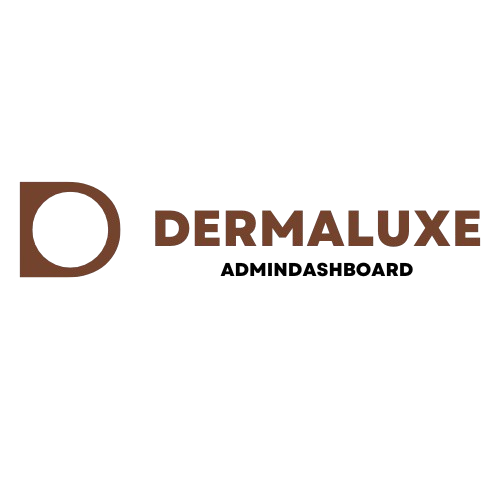
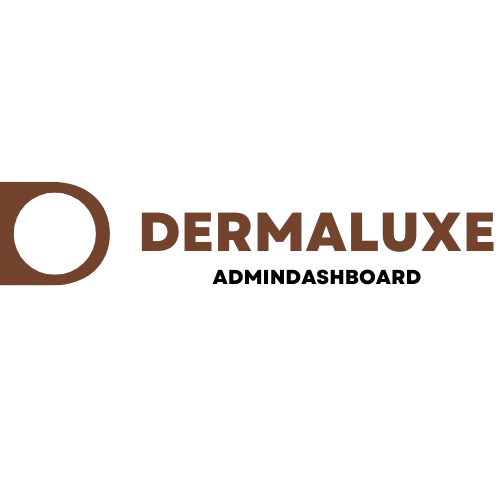
Add new entries to the backend and update the admin dashboard

Changed region(s): [[0.27, 0.42, 0.99, 0.57], [0.0, 0.36, 0.24, 0.57]]

diff --git a/skincare-product-recommendation-frontend/src/components/Admin/Admin.css b/skincare-product-recommendation-frontend/src/components/Admin/Admin.css
@@ -5,8 +5,8 @@
 }
 
 .sidebar {
-    width: 250px;
-    background-color: #cab69e;
+    width: 220px;
+    background-color: #e9e5df;
     color: white;
     padding: 20px;
     display: flex;
@@ -14,10 +14,11 @@
 }
 
 .sidebar-image {
-    width: 114%;
+    display: block;
+    margin: -50px -6px;
+    width: 107%;
     height: auto;
-    margin-left: -19px;
-    margin-top: -70px;
+
 }
 
 ul {

diff --git a/skincare-product-recommendation-frontend/src/App.js b/skincare-product-recommendation-frontend/src/App.js
@@ -43,6 +43,11 @@ function App() {
         <Route path='/skin-dermaluxe' element={<Dermaluxe />} />
         <Route path='/skin' element={<Quiz />} />
 
+
+
+
+
+
         {/* Admin routes wrapped in AdminRoute */}
         <Route element={<AdminRoute />}>
           <Route path='/admin' element={<Admin />} />

diff --git a/Dermaluxe_Skincare_Backend/src/main/java/com/example/Dermaluxe_Skincare_Backend/Service/ReviewService.java b/Dermaluxe_Skincare_Backend/src/main/java/com/example/Dermaluxe_Skincare_Backend/Service/ReviewService.java
@@ -1,0 +1,56 @@
+package com.example.Dermaluxe_Skincare_Backend.Service;
+
+import com.example.Dermaluxe_Skincare_Backend.Model.Review;
+import com.example.Dermaluxe_Skincare_Backend.Repository.ReviewRepository;
+import org.springframework.beans.factory.annotation.Autowired;
+import org.springframework.stereotype.Service;
+
+import java.util.List;
+import java.util.Optional;
+
+@Service
+public class ReviewService {
+
+    @Autowired
+    private ReviewRepository reviewRepository;
+
+    // Get all reviews
+    public List<Review> getAllReviews() {
+        return reviewRepository.findAll();
+    }
+
+    // Get a review by ID
+    public Optional<Review> getReviewById(String id) {
+        return reviewRepository.findById(id);
+    }
+
+    // Add a new review
+    public Review createReview(Review review) {
+        return reviewRepository.save(review);
+    }
+
+    // Update an existing review
+    public Optional<Review> updateReview(String id, Review updatedReview) {
+        return reviewRepository.findById(id)
+                .map(review -> {
+                    review.setName(updatedReview.getName());
+                    review.setEmail(updatedReview.getEmail());
+                    review.setSubject(updatedReview.getSubject());
+                    review.setMessage(updatedReview.getMessage());
+                    review.setStatus(updatedReview.getStatus());
+                    review.setRespond(updatedReview.getRespond());
+                    review.setImageUrl(updatedReview.getImageUrl());
+                    return reviewRepository.save(review);
+                });
+    }
+
+    // Delete a review by ID
+    public boolean deleteReview(String id) {
+        return reviewRepository.findById(id)
+                .map(review -> {
+                    reviewRepository.delete(review);
+                    return true;
+                })
+                .orElse(false);
+    }
+}

diff --git a/Dermaluxe_Skincare_Backend/src/main/java/com/example/Dermaluxe_Skincare_Backend/Controller/ReviewController.java b/Dermaluxe_Skincare_Backend/src/main/java/com/example/Dermaluxe_Skincare_Backend/Controller/ReviewController.java
@@ -1,0 +1,54 @@
+package com.example.Dermaluxe_Skincare_Backend.Controller;
+
+import com.example.Dermaluxe_Skincare_Backend.Model.Review;
+import com.example.Dermaluxe_Skincare_Backend.Service.ReviewService;
+import org.springframework.beans.factory.annotation.Autowired;
+import org.springframework.http.ResponseEntity;
+import org.springframework.web.bind.annotation.*;
+
+import java.util.List;
+import java.util.Optional;
+
+@RestController
+@RequestMapping("/api/reviews")
+@CrossOrigin(origins = "*")
+public class ReviewController {
+
+    @Autowired
+    private ReviewService reviewService;
+
+    // GET all reviews
+    @GetMapping
+    public List<Review> getAllReviews() {
+        return reviewService.getAllReviews();
+    }
+
+    // GET a single review by ID
+    @GetMapping("/{id}")
+    public ResponseEntity<Review> getReviewById(@PathVariable String id) {
+        Optional<Review> review = reviewService.getReviewById(id);
+        return review.map(ResponseEntity::ok).orElseGet(() -> ResponseEntity.notFound().build());
+    }
+
+    // POST - Add a new review
+    @PostMapping
+    public Review createReview(@RequestBody Review review) {
+        return reviewService.createReview(review);
+    }
+
+    // PUT - Update an existing review
+    @PutMapping("/{id}")
+    public ResponseEntity<Review> updateReview(@PathVariable String id, @RequestBody Review updatedReview) {
+        return reviewService.updateReview(id, updatedReview)
+                .map(ResponseEntity::ok)
+                .orElseGet(() -> ResponseEntity.notFound().build());
+    }
+
+    // DELETE - Remove a review by ID
+    @DeleteMapping("/{id}")
+    public ResponseEntity<Void> deleteReview(@PathVariable String id) {
+        return reviewService.deleteReview(id)
+                ? ResponseEntity.noContent().<Void>build()
+                : ResponseEntity.notFound().build();
+    }
+}

diff --git a/Dermaluxe_Skincare_Backend/src/main/java/com/example/Dermaluxe_Skincare_Backend/Model/Review.java b/Dermaluxe_Skincare_Backend/src/main/java/com/example/Dermaluxe_Skincare_Backend/Model/Review.java
@@ -1,0 +1,36 @@
+package com.example.Dermaluxe_Skincare_Backend.Model;
+
+import lombok.Getter;
+import lombok.Setter;
+import org.springframework.data.annotation.Id;
+import org.springframework.data.mongodb.core.mapping.Document;
+
+@Setter
+@Getter
+@Document(collection = "Review")
+public class Review {
+
+    @Id
+    private String id;
+    private String name;
+    private String email;
+    private String subject;
+    private String message;
+    private String status;
+    private String respond;
+    private String imageUrl;
+
+    // Default Constructor
+    public Review() {}
+
+    // Parameterized Constructor
+    public Review(String name, String email, String subject, String message, String status, String respond, String imageUrl) {
+        this.name = name;
+        this.email = email;
+        this.subject = subject;
+        this.message = message;
+        this.status = status;
+        this.respond = respond;
+        this.imageUrl = imageUrl;
+    }
+}

diff --git a/Dermaluxe_Skincare_Backend/src/main/java/com/example/Dermaluxe_Skincare_Backend/Repository/ReviewRepository.java b/Dermaluxe_Skincare_Backend/src/main/java/com/example/Dermaluxe_Skincare_Backend/Repository/ReviewRepository.java
@@ -1,0 +1,9 @@
+package com.example.Dermaluxe_Skincare_Backend.Repository;
+
+import com.example.Dermaluxe_Skincare_Backend.Model.Review;
+import org.springframework.data.mongodb.repository.MongoRepository;
+import org.springframework.stereotype.Repository;
+
+@Repository
+public interface ReviewRepository extends MongoRepository<Review, String> {
+}
